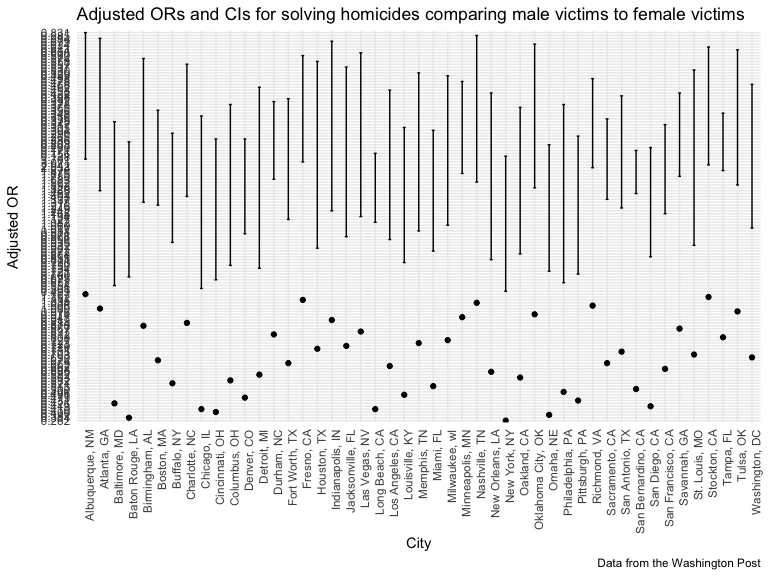
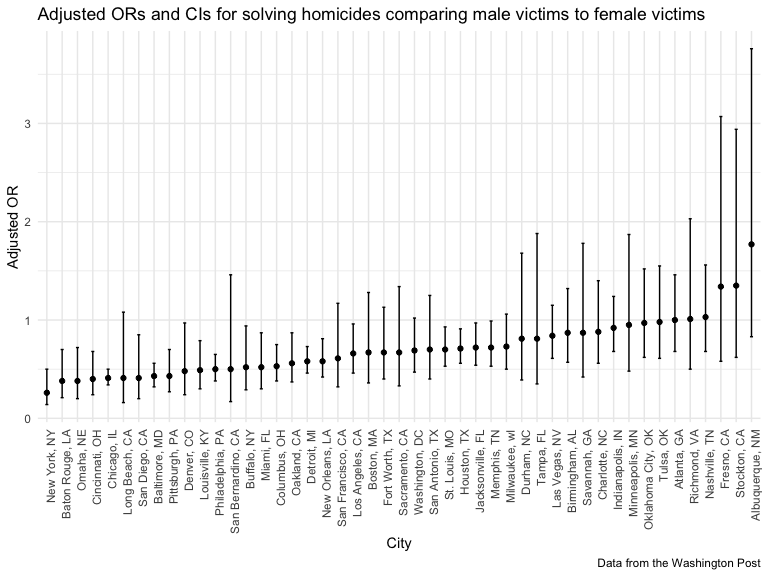
finished Q2, reordered the plot by OR, and fixed the confidence intervals, added comments on the min and max ORs

Changed region(s): [[0.0312, 0.0, 1.0, 0.9375], [0.5, 0.9375, 0.5625, 0.9688]]

diff --git a/p8105_hw6_maf2311.md b/p8105_hw6_maf2311.md
@@ -153,20 +153,20 @@ nest_glm_cities =
 
 nest_glm_cities = nest_glm_cities %>%
   mutate(
-    OR = format(round(exp(estimate), 3), nsmall = 3),
-    lower = format(round(exp(estimate - (1.96*std.error)), 3), nsmall = 3),
-    upper = format(round(exp(estimate + (1.96*std.error)), 3), nsmall = 3)
+    OR = round(exp(estimate), digits = 2),
+    lower = round(exp(estimate - (1.96*std.error)), digits = 2),
+    upper = round(exp(estimate + (1.96*std.error)), digits = 2)
   ) %>%
-  filter(term == "victim_sexMale")
+  filter(term == "victim_sexMale") 
 ```
 
 Plot that shows the estimated ORs and CIs for each city, organized
 according to estimated OR
 
 ``` r
-ggplot(nest_glm_cities, aes(x = city_state, y = OR)) + 
+ggplot(nest_glm_cities, aes(x = reorder(city_state, OR), y = OR)) + 
   geom_point() +
-  geom_errorbar(aes(ymin = lower, ymax = upper), width = 0.2) +
+  geom_errorbar(aes(ymin = lower, ymax = upper), width = 0.2) + 
   labs(
     title = "Adjusted ORs and CIs for solving homicides comparing male victims to female victims",
     x = "City",
@@ -177,6 +177,14 @@ ggplot(nest_glm_cities, aes(x = city_state, y = OR)) +
 ```
 
 <img src="p8105_hw6_maf2311_files/figure-gfm/2_plot-1.png" width="90%" />
+
+This plot shows the estimated odds ratios and confidence intervals for
+solving homicides comparing male victims to female victims for each
+city, organized according to estimated OR. The estimated odds for
+solving a homicide with a male victim compared to a female victim is
+lowest at 0.26 times in New York City. The estimated odds for solving a
+homicide with a male victim compared to a female victim is highest at
+1.77 times in Albuquerque.
 
 # Problem 3
 
